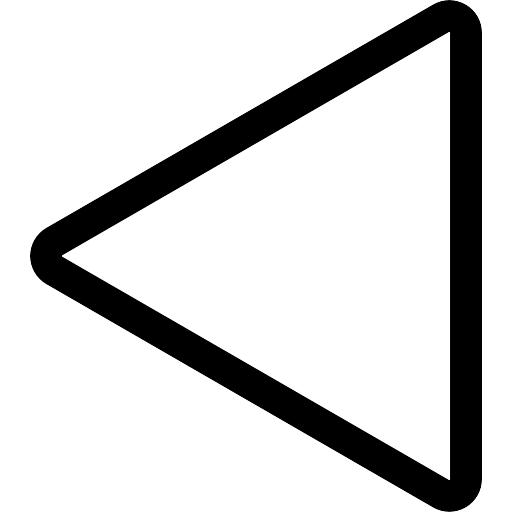
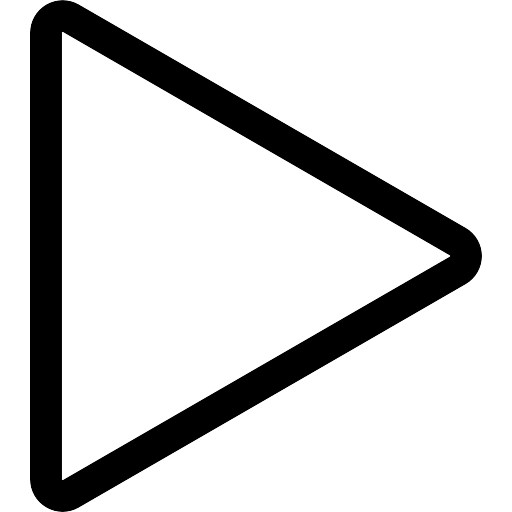
this is the main Menu, this includes the screen and the buttons not fully completed. This is with the grid being used for layout is visable, will not be once completed.

diff --git a/src/main/java/ATM/ATMMenuScreen.java b/src/main/java/ATM/ATMMenuScreen.java
@@ -2,21 +2,17 @@ package ATM;
 
 import javafx.geometry.Insets;
 import javafx.geometry.Pos;
-import javafx.scene.Node;
 import javafx.scene.Scene;
 import javafx.scene.control.Label;
-import javafx.scene.control.TextField;
 import javafx.scene.image.Image;
 import javafx.scene.image.ImageView;
 import javafx.scene.layout.*;
 import javafx.scene.text.Font;
-import javafx.scene.text.FontWeight;
 import javafx.stage.Stage;
 import javafx.scene.control.Button;
 
 import java.io.FileInputStream;
 import java.io.FileNotFoundException;
-import java.net.URL;
 
 
 public class ATMMenuScreen {
@@ -28,36 +24,79 @@ public class ATMMenuScreen {
         return label1;
     }
     double maxSize = 100;
-    public Button leftTriangleButton() {
+    public GridPane  leftTriangleButton() {
         //TriangleButton leftbutton = new TriangleButton();
-        try {
 
-            FileInputStream left = new FileInputStream("C:\\Users\\bendo\\IdeaProjects\\Java-ATM-\\src\\main\\java\\ATM\\style\\left-arrow_4238475.png");
-            Image imageView = new Image(left, 50, 50, false, false);
-            ImageView imageViewNode = new ImageView(imageView);
 
             // Create the button
             Button buttonTopLeft = new Button();
 
-            // Set the graphic for the button
-            buttonTopLeft.setGraphic(imageViewNode);
+            // Set the graphic for the button , this is the button on the
+            buttonTopLeft.setGraphic(rightArrowButton());
 
             buttonTopLeft.setStyle("-fx-background-color: transparent;  -fx-border-color: transparent;");
 
             // Add a style class for custom styling
-            buttonTopLeft.getStyleClass().add("image-only-button");
 
-            enterButton(buttonTopLeft);
-
-            return buttonTopLeft;
-        }catch (FileNotFoundException e) {
-            // Handle the exception (e.g., log the error or use a placeholder image)
-            System.err.println("Image file not found: " + e.getMessage());
-            // Optionally, set a default graphic or leave it without one
-        }
+            Label chassOutPage = new Label("  Cash Out");
+            chassOutPage.setGraphic(LabelArrowLeft());
+            chassOutPage.setFont(new Font("Arial", 20));
 
 
-        return null;
+
+            // button on the top left
+            // Create the button
+            Button buttonTopRight = new Button();
+
+            // Set the graphic for the button , this is the button on the
+            buttonTopRight.setGraphic(leftArrowButton());
+
+            buttonTopRight.setStyle("-fx-background-color: transparent;  -fx-border-color: transparent;");
+
+            // Add a style class for custom styling - this will be need for a hilight on the button
+
+            Label Balance = new Label("Balance");
+            Balance.setGraphic(LabelArrowright());
+            Balance.setContentDisplay(javafx.scene.control.ContentDisplay.RIGHT);
+            Balance.setPadding(new Insets(0, 0, 0, 180));
+            Balance.setFont(new Font("Arial", 20));
+
+
+
+
+            Button accountInfromationButton = new Button();
+            accountInfromationButton.setGraphic(rightArrowButton());
+
+            accountInfromationButton.setStyle("-fx-background-color: transparent; -fx-border-color: transparent;");
+
+
+
+            Label Account_Information = new Label("  Account Information");
+            Account_Information.setGraphic(LabelArrowLeft());
+            Account_Information.setFont(new Font("Arial", 20));
+
+            // deposit
+            Button Deposit = new Button();
+
+            Deposit.setGraphic(leftArrowButton());
+            Deposit.setStyle("-fx-background-color: transparent; -fx-border-color: transparent;");
+
+
+
+            Label depositlabel = new Label(" Deposit");
+            depositlabel.setGraphic(LabelArrowright());
+            depositlabel.setContentDisplay(javafx.scene.control.ContentDisplay.RIGHT);
+            depositlabel.setPadding(new Insets(0, 0, 0, 180));
+            depositlabel.setFont(new Font("Arial", 20));
+
+
+
+
+
+            // send the button and to the mainMenu
+            return mainMenu(buttonTopLeft , chassOutPage  , buttonTopRight, Balance, accountInfromationButton ,
+                    Account_Information , Deposit , depositlabel);
+
 
     }
 
@@ -76,32 +115,178 @@ public class ATMMenuScreen {
 
             // Create the scene and set it on the stage
 
-            Scene sceneManu = new Scene(layoutMenu, 800, 600);
+            Scene sceneManu = new Scene(layoutMenu,  800, 600);
 
 
             stage.setScene(sceneManu);
 
             stage.show();
+    }
 
+    public GridPane mainMenu(Button bOne, Label ChassoutPage , Button btwo, Label Balance, Button bThree, Label Account_informationL , Button bfour, Label deposit ){
+        // the creation of the gridpain
+
+        GridPane gridPane = new GridPane();
+
+        // delete
+        gridPane.setGridLinesVisible(true);
+
+        gridPane.setAlignment(Pos.CENTER);
+
+        // top ,  right, left , bottom
+        gridPane.setPadding(new Insets(10 , 10 , 10 ,10));
+
+
+        ColumnConstraints colum0 = new ColumnConstraints();
+        colum0.setPrefWidth(80);
+        RowConstraints row0 = new RowConstraints();
+        row0.setPrefHeight(80);
+
+        ColumnConstraints colum1 = new ColumnConstraints();
+        colum1.setPrefWidth(300);
+        RowConstraints row1 = new RowConstraints();
+        row1.setPrefHeight(80);
+
+        ColumnConstraints colum2 = new ColumnConstraints();
+        colum2.setPrefWidth(50);
+
+        RowConstraints row2 = new RowConstraints();
+        row2.setPrefHeight(100);
+
+        ColumnConstraints colum3 = new ColumnConstraints();
+        colum3.setPrefWidth(300);
+        RowConstraints row3 = new RowConstraints();
+        row3.setPrefHeight(80);
+
+        ColumnConstraints colum4 = new ColumnConstraints();
+        colum4.setPrefWidth(80);
+
+
+        RowConstraints row4 = new RowConstraints();
+        row4 .setPrefHeight(80);
+
+
+
+
+
+
+
+        gridPane.getColumnConstraints().add(colum0);
+        gridPane.getRowConstraints().add(row0);
+
+        gridPane.getColumnConstraints().add(colum1);
+        gridPane.getRowConstraints().add(row1);
+
+        gridPane.getColumnConstraints().add(colum2);
+        gridPane.getRowConstraints().add(row2);
+
+        gridPane.getColumnConstraints().add(colum3);
+        gridPane.getRowConstraints().add(row3);
+
+        gridPane.getColumnConstraints().add(colum4);
+        gridPane.getRowConstraints().add(row4);
+
+
+                          //  colum , row,
+        gridPane.add(bOne, 0, 0, 1, 1);
+
+        gridPane.add(ChassoutPage, 1, 0, 1, 1);
+
+        gridPane.add( Balance, 3 , 0 , 1 ,1  );
+
+        gridPane.add(btwo , 4 , 0 , 1 ,1 );
+
+        gridPane.add(bThree , 0 , 1 , 1, 1);
+
+        gridPane.add(Account_informationL , 1 ,1 ,1,1);
+
+        gridPane.add(deposit , 3 ,1 ,1 , 1);
+
+        gridPane.add(bfour , 4 , 1 ,1,1 );
+
+
+
+        return gridPane;
+    }
+
+
+
+    public void enterButton(Button button ){
+        ATMMenuScreen menu = new ATMMenuScreen();
+
+        button.setOnAction(e -> {
+            // this is where the primaryStage = stage, which means the origanle stage from setup is being passed to menuset up
+
+        });
 
 
 
 
 
     }
-
-    public void enterButton(Button button ){
-        ATMMenuScreen menu = new ATMMenuScreen();
-
-        button.setOnAction(e -> {
-
-
-            // this is where the primaryStage = stage, which means the origanle stage from setup is being passed to menuset up
-            button.setText("press worked");
+    // this is come about due to the amount of times this code has had to be repeated
+    public ImageView rightArrowButton(){
+        try {
+            // this is for the left hand side button
+            FileInputStream right = new FileInputStream("C:\\Users\\bendo\\IdeaProjects\\Java-ATM-\\src\\main\\java\\ATM\\style\\right-arrow_4238475.png");
+            Image imageRightButton = new Image(right, 50, 50, false, false);
 
 
-        });
+            return new ImageView(imageRightButton);
+        }catch (FileNotFoundException e) {
+            // Handle the exception (e.g., log the error or use a placeholder image)
+            System.err.println("Image file not found: " + e.getMessage());
+            // Optionally, set a default graphic or leave it without one
+        }
 
+        return null;
+    }
+    public  ImageView leftArrowButton(){
+        try {
+
+
+            FileInputStream left = new FileInputStream("C:\\Users\\bendo\\IdeaProjects\\Java-ATM-\\src\\main\\java\\ATM\\style\\left-arrow_4238475.png");
+            Image imageLeftButton = new Image(left, 50, 50, false, false);
+
+           return new ImageView(imageLeftButton);
+        }catch (FileNotFoundException e) {
+            // Handle the exception (e.g., log the error or use a placeholder image)
+            System.err.println("Image file not found: " + e.getMessage());
+            // Optionally, set a default graphic or leave it without one
+        }
+
+        return null;
+    }
+
+    public ImageView LabelArrowLeft(){
+        try{
+            FileInputStream leftarrow = new FileInputStream("C:\\Users\\bendo\\IdeaProjects\\Java-ATM-\\src\\main\\java\\ATM\\style\\pointingLeft.png");
+            Image imageViewArrow = new Image(leftarrow, 30, 30, false, false);
+
+            return  new ImageView(imageViewArrow);
+        }catch (FileNotFoundException e) {
+            // Handle the exception (e.g., log the error or use a placeholder image)
+            System.err.println("Image file not found: " + e.getMessage());
+            // Optionally, set a default graphic or leave it without one
+        }
+
+        return null;
+
+    }
+
+    public ImageView LabelArrowright(){
+        try{
+            FileInputStream rightarrow = new FileInputStream("C:\\Users\\bendo\\IdeaProjects\\Java-ATM-\\src\\main\\java\\ATM\\style\\pointingRight.png");
+            Image imageViewArrow = new Image(rightarrow, 30, 30, false, false);
+
+            return  new ImageView(imageViewArrow);
+        }catch (FileNotFoundException e) {
+            // Handle the exception (e.g., log the error or use a placeholder image)
+            System.err.println("Image file not found: " + e.getMessage());
+            // Optionally, set a default graphic or leave it without one
+        }
+
+        return null;
 
     }
 }
